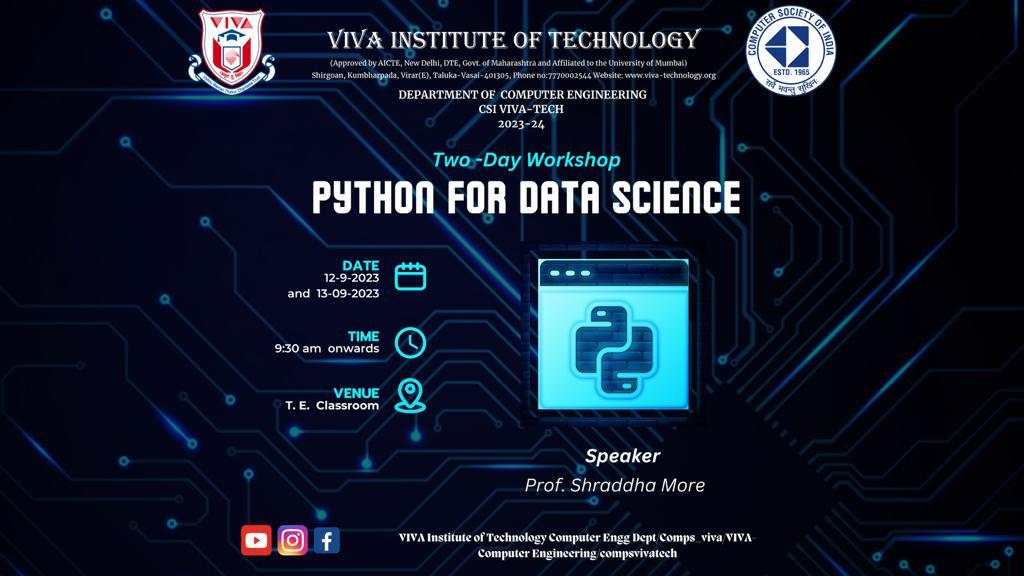
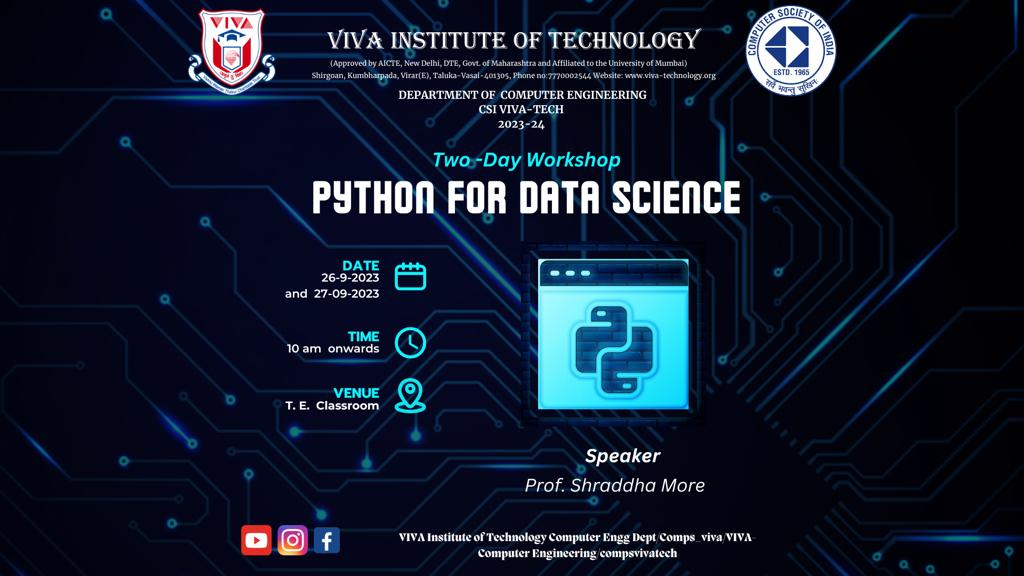
fixed date errors, removed few elements

diff --git a/events.html b/events.html
@@ -74,7 +74,7 @@
           <a style="color: #183183" class="nav-link" href="gallery.html">Gallery</a>
           <a style="color: #183183" class="nav-link" href="contact.html">Contact Us</a>
           <a style="color: #183183" class="nav-link" href="http://www.viva-technology.org/New/Tech-next/">Tech Next</a>
-          <a style="color: #183183" class="nav-link" href="https://techchase2022.github.io/registration/">Tech Chase</a>
+          <!-- <a style="color: #183183" class="nav-link" href="https://techchase2022.github.io/registration/">Tech Chase</a> -->
 
         </div>
       </div>
@@ -118,6 +118,21 @@
 
         <div class="col-md-4">
           <hr>
+          <a href="gallery.html#datascienceworkshop"><span class="image fit"><img loading="lazy"
+                src="images/2023/September/datascience.jpeg" alt="" /></span></a>
+          <h4>
+            26<sup>th</sup> and 27<sup>th</sup> September 2023</h4>
+          <p>The CSI committee hosted a two-day "Python for Data Science" workshop for third-year students. Led by
+            expert Mrs.
+            Shraddha More, the event aimed to equip students with essential Python skills for data science applications.
+            The
+            successful workshop highlighted the committee's dedication to enhancing students' technical expertise for
+            the dynamic
+            world of data science and technology.
+        </div>
+
+        <div class="col-md-4">
+          <hr>
           <a href="gallery.html#techchase2023"><span class="image fit"><img loading="lazy"
                 src="images/2023/September/techchase.jpeg" alt="" /></span></a>
           <h4>
@@ -146,20 +161,6 @@
             participation across all activities.
         </div>
 
-        <div class="col-md-4">
-          <hr>
-          <a href="gallery.html#datascienceworkshop"><span class="image fit"><img loading="lazy"
-                src="images/2023/September/datascience.jpeg" alt="" /></span></a>
-          <h4>
-            30<sup>th</sup> and 31<sup>th</sup> August 2023</h4>
-          <p>The CSI committee hosted a two-day "Python for Data Science" workshop for third-year students. Led by
-            expert Mrs.
-            Shraddha More, the event aimed to equip students with essential Python skills for data science applications.
-            The
-            successful workshop highlighted the committee's dedication to enhancing students' technical expertise for
-            the dynamic
-            world of data science and technology.
-        </div>
 
 
         <div class="col-md-4">
@@ -239,64 +240,6 @@
           <h2>Events 2022-23</h2>
         </header>
         <div class="row ">
-
-          <div class="col-md-4">
-            <hr>
-            <a href="gallery.html#algorithmworkshop"><span class="image fit"><img loading="lazy"
-                  src="images/2023/August/workshop.jpeg" alt="" /></span></a>
-            <h4>
-              9<sup>th</sup> August 2023</h4>
-            <p>The workshop's objective was to underscore the significance of Algorithmic Foundations among students. It
-              spanned two
-              days 9th and 10th August, offering live hands-on experience to SE department of computer engineering
-              students. The
-              workshop delved into the significance of OOPs and algorithms for technical interviews and company
-              insights.
-              Students
-              actively engaged with the speaker through interactive sessions. In summation, the workshop achieved its
-              goals
-              successfully.
-          </div>
-
-          <div class="col-md-4">
-            <hr>
-            <a href="gallery.html#buildinggapps"><span class="image fit"><img loading="lazy"
-                  src="images/2023/August/buildinggapps.jpeg" alt="" /></span></a>
-            <h4>
-              7<sup>th</sup> August 2023</h4>
-            <p>The seminar's purpose was to highlight the significance of bridging the gap between Industry and
-              Academia,
-              essential
-              domains in their own right. SE and TE students enthusiastically engaged in discussions and interactive
-              sessions. The
-              event underscored practical skills, real-world applications, and industry trends. It served as a valuable
-              platform for
-              students to interact with experienced professional, gaining insights into industry expectations. Overall,
-              the seminar
-              enriched students' comprehension of how academic knowledge harmonizes with industry requirements, better
-              equipping them
-              for prosperous careers.
-
-          </div>
-
-          <div class="col-md-4">
-            <hr>
-            <a href="gallery.html#monthlyaugust2023"><span class="image fit"><img loading="lazy"
-                  src="images/2023/August/monthly.jpeg" alt="" /></span></a>
-            <h4>
-              3<sup>rd</sup> August 2023</h4>
-            <p>The event was arranged to provide students with the opportunity to relax and engage in various
-              activities.
-              Students from
-              the computer department actively participated in games such as Pictionary Relay, Code Hunt, TechChain
-              TechJumble.
-              Participants enthusiastically competed and successfully completed all tasks to qualify for the finals.
-              Ultimately, the
-              event was a source of enjoyment for everyone in the department, with a significant turnout from SE, TE,
-              and
-              BE.
-
-          </div>
 
           <div class="col-md-4">
             <hr>

diff --git a/gallery.html b/gallery.html
@@ -59,7 +59,7 @@
           <a style="color: #183183" class="nav-link fw-bold" href="gallery.html"><u>Gallery</u></a>
           <a style="color: #183183" class="nav-link" href="contact.html">Contact Us</a>
           <a style="color: #183183" class="nav-link" href="http://www.viva-technology.org/New/Tech-next/">Tech Next</a>
-          <a style="color: #183183" class="nav-link" href="https://techchase2022.github.io/registration/">Tech Chase</a>
+          <!-- <a style="color: #183183" class="nav-link" href="https://techchase2022.github.io/registration/">Tech Chase</a> -->
         </div>
       </div>
   </nav>
@@ -89,40 +89,46 @@
 
       <section id="blockchain2023">
         <div class="col-12 mb-3 mt-3">
-          <h3 style="text-align: center; color: #183883">Workshop on blockchain</h3>
+          <h3 style="text-align: center; color: #183883">Workshop on Blockchain</h3>
         </div>
         <div style="font-family: 'Montserrat', sans-serif;" class="row gtr-150">
           <div class="col-md-4">
-            <span class="image fit"><img loading="lazy" src="images/gallery/Blockchain 2023/blockchain-1.jpeg" alt="" /></span>
+            <span class="image fit"><img loading="lazy" src="images/gallery/Blockchain 2023/blockchain-1.jpeg"
+                alt="" /></span>
           </div>
           <div class="col-md-4">
-            <span class="image fit"><img loading="lazy" src="images/gallery/Blockchain 2023/blockchain-2.jpeg" alt="" /></span>
+            <span class="image fit"><img loading="lazy" src="images/gallery/Blockchain 2023/blockchain-2.jpeg"
+                alt="" /></span>
           </div>
           <div class="col-md-4">
-            <span class="image fit"><img loading="lazy" src="images/gallery/Blockchain 2023/blockchain-3.jpeg" alt="" /></span>
+            <span class="image fit"><img loading="lazy" src="images/gallery/Blockchain 2023/blockchain-3.jpeg"
+                alt="" /></span>
           </div>
         </div>
       </section>
       <hr>
-      
+
       <section id="techchase2023">
         <div class="col-12 mb-3 mt-3">
           <h3 style="text-align: center; color: #183883">Techchase 2023</h3>
         </div>
         <div style="font-family: 'Montserrat', sans-serif;" class="row gtr-150">
           <div class="col-md-4">
-            <span class="image fit"><img loading="lazy" src="images/gallery/Techchase 2023/techchase-3.jpeg" alt="" /></span>
+            <span class="image fit"><img loading="lazy" src="images/gallery/Techchase 2023/techchase-3.jpeg"
+                alt="" /></span>
           </div>
           <div class="col-md-4">
-            <span class="image fit"><img loading="lazy" src="images/gallery/Techchase 2023/techchase-2.jpeg" alt="" /></span>
+            <span class="image fit"><img loading="lazy" src="images/gallery/Techchase 2023/techchase-2.jpeg"
+                alt="" /></span>
           </div>
           <div class="col-md-4">
-            <span class="image fit"><img loading="lazy" src="images/gallery/Techchase 2023/techchase-1.jpeg" alt="" /></span>
+            <span class="image fit"><img loading="lazy" src="images/gallery/Techchase 2023/techchase-1.jpeg"
+                alt="" /></span>
           </div>
         </div>
       </section>
       <hr>
-      
+
       <section id="josh2023">
         <div class="col-12 mb-3 mt-3">
           <h3 style="text-align: center; color: #183883">Josh 2023</h3>
@@ -140,7 +146,7 @@
         </div>
       </section>
       <hr>
-      
+
       <section id="pythonworkshop">
         <div class="col-12 mb-3 mt-3">
           <h3 style="text-align: center; color: #183883">Workshop On Python For Data Science</h3>

diff --git a/index.html b/index.html
@@ -70,14 +70,14 @@
           <a style="color: #183183" class="nav-link" href="gallery.html">Gallery</a>
           <a style="color: #183183" class="nav-link" href="contact.html">Contact Us</a>
           <a style="color: #183183" class="nav-link" href="http://www.viva-technology.org/New/Tech-next/">Tech Next</a>
-          <a style="color: #183183" class="nav-link" href="https://techchase2022.github.io/registration/">Tech Chase</a>
+          <!-- <a style="color: #183183" class="nav-link" href="https://techchase2022.github.io/registration/">Tech Chase</a> -->
 
         </div>
       </div>
   </nav>
 
   <!-- For Future Reference : Do Not Modify Carelessly, It Breaks.  -->
-
+<!-- 
   <div id="carouselHero" class="carousel slide" data-bs-ride="carousel" data-bs-speeed="2000">
     <div class="carousel-inner">
       <div class="carousel-item active">
@@ -112,7 +112,7 @@
       </div>
     </div>
 
-    <!-- Added Top Pixels To Center The Controls -->
+    Added Top Pixels To Center The Controls
     <button class="carousel-control-prev" type="button" data-bs-target="#carouselHero" data-bs-slide="prev"
       style="top: 10rem; width: 10%;">
       <span class="carousel-control-prev-icon" aria-hidden="true"></span>
@@ -123,7 +123,7 @@
       <span class="carousel-control-next-icon" aria-hidden="true"></span>
       <span class="visually-hidden">Next</span>
     </button>
-  </div>
+  </div> -->
 
   <section id="header">
     <div style="font-family: 'Montserrat', sans-serif;" class="inner">

diff --git a/current.html b/current.html
@@ -60,8 +60,8 @@
                     <a style="color: #183183" class="nav-link" href="contact.html">Contact Us</a>
                     <a style="color: #183183" class="nav-link" href="http://www.viva-technology.org/New/Tech-next/">Tech
                         Next</a>
-                    <a style="color: #183183" class="nav-link" href="https://techchase2022.github.io/registration/">Tech
-                        Chase</a>
+                    <!-- <a style="color: #183183" class="nav-link" href="https://techchase2022.github.io/registration/">Tech
+                        Chase</a> -->
 
                 </div>
             </div>

diff --git a/contact.html b/contact.html
@@ -54,7 +54,7 @@
           <a style="color: #183183" class="nav-link" href="gallery.html">Gallery</a>
           <a style="color: #183183" class="nav-link fw-bold" href="contact.html"><u>Contact Us</u></a>
           <a style="color: #183183" class="nav-link" href="http://www.viva-technology.org/New/Tech-next/">Tech Next</a>
-          <a style="color: #183183" class="nav-link" href="https://techchase2022.github.io/registration/">Tech Chase</a>
+          <!-- <a style="color: #183183" class="nav-link" href="https://techchase2022.github.io/registration/">Tech Chase</a> -->
         </div>
       </div>
   </nav>

diff --git a/committee.html b/committee.html
@@ -59,7 +59,7 @@
           <a style="color: #183183" class="nav-link" href="gallery.html">Gallery</a>
           <a style="color: #183183" class="nav-link" href="contact.html">Contact Us</a>
           <a style="color: #183183" class="nav-link" href="http://www.viva-technology.org/New/Tech-next/">Tech Next</a>
-          <a style="color: #183183" class="nav-link" href="https://techchase2022.github.io/registration/">Tech Chase</a>
+          <!-- <a style="color: #183183" class="nav-link" href="https://techchase2022.github.io/registration/">Tech Chase</a> -->
 
         </div>
       </div>
